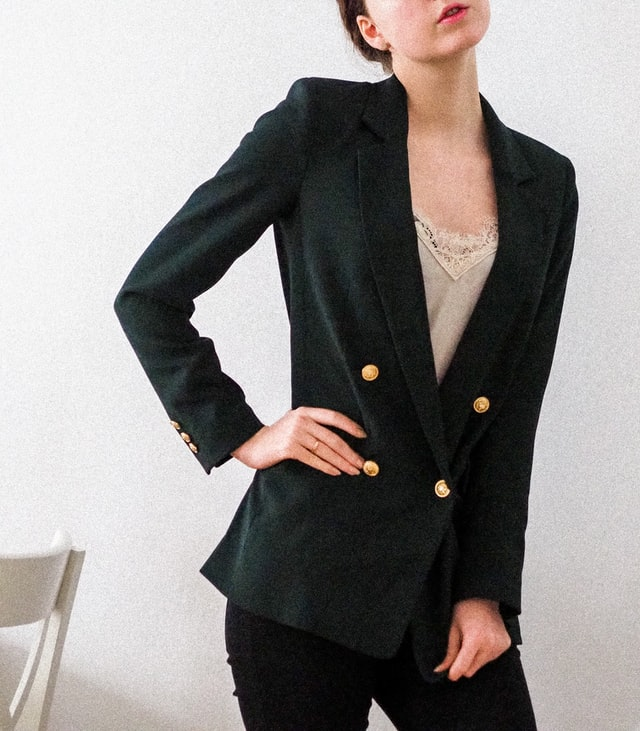
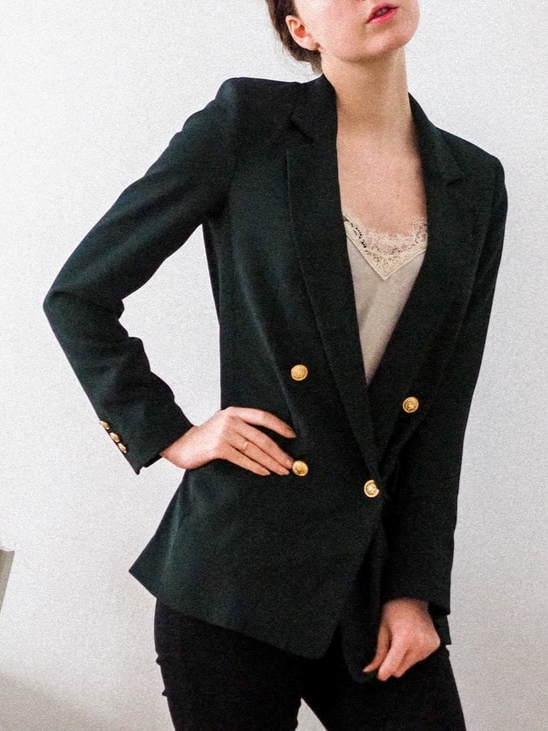
finished photo import from database for product pg

diff --git a/seeds.js b/seeds.js
@@ -21,7 +21,7 @@ const allProducts = [
         imgs: {
             img1: "/Assets/productImgs/blackBlazer/blackBlazer1.jpg",
             img2: "/Assets/productImgs/blackBlazer/blackBlazer2.jpg",
-            img2: "/Assets/productImgs/blackBlazer/blackBlazer3.jpg"
+            img3: "/Assets/productImgs/blackBlazer/blackBlazer3.jpg"
         }
     },
     {
@@ -93,9 +93,9 @@ const allProducts = [
         price: 46.99,
         category: 'Tops',
         imgs: {
-            img1: "/Assets/productImgs/laceCami/laceCami1.jpg",
-            img2: "/Assets/productImgs/laceCami/laceCami2.jpg",
-            img3: "/Assets/productImgs/laceCami/laceCami3.jpg",
+            img1: "/Assets/productImgs/bowtieBlouse/bowtieBlouse1.jpg",
+            img2: "/Assets/productImgs/bowtieBlouse/bowtieBlouse2.jpg",
+            img3: "/Assets/productImgs/bowtieBlouse/bowtieBlouse3.jpg",
 
         }
     },
@@ -115,9 +115,9 @@ const allProducts = [
         price: 52.99,
         category: 'Pants & Dresses',
         imgs: {
-            img1: "/Assets/productImgs/tailoredTrousers/checkedDress1.jpg",
-            img2: "/Assets/productImgs/tailoredTrousers/checkedDress2.jpg",
-            img3: "/Assets/productImgs/tailoredTrousers/checkedDress3.jpg",
+            img1: "/Assets/productImgs/checkedDress/checkedDress1.jpg",
+            img2: "/Assets/productImgs/checkedDress/checkedDress2.jpg",
+            img3: "/Assets/productImgs/checkedDress/checkedDress3.jpg",
 
         }
     },

diff --git a/public/Stylesheets/productPageStylesheet.css b/public/Stylesheets/productPageStylesheet.css
@@ -23,7 +23,9 @@ h1{
 }
 
 .scrollArrow{
-    width: 20px;
+    /* width: 20px; */
+    height: 25px;
+    margin: auto;
     cursor: pointer;
 }
 
@@ -41,7 +43,7 @@ h1{
     display: flex;
     flex-wrap: none;
     width: 100%;
-
+    height: auto;
 }
 
 #carousel{
@@ -53,6 +55,8 @@ h1{
     margin: 0;
     direction: ltr;
     position: relative;
+    height: auto;
+    object-fit: scale-down;
 }
 
 #carousel::-webkit-scrollbar{
@@ -60,15 +64,16 @@ h1{
 }
 
 .productImg{
-    min-width: 100%;
-    /* background-color: var(--brandPurple); */
+    width: 100%;
+    height: auto;
     margin-bottom: 0px;
+    object-fit: contain;
 }
 
 #priceLabel{
     box-sizing: border-box;
     width: 100px;
-    /* height: 52px; */
+    height: auto;
     font-family: var(--sansSerifFonts);
     font-size: 14pt;
     font-weight: 300;
